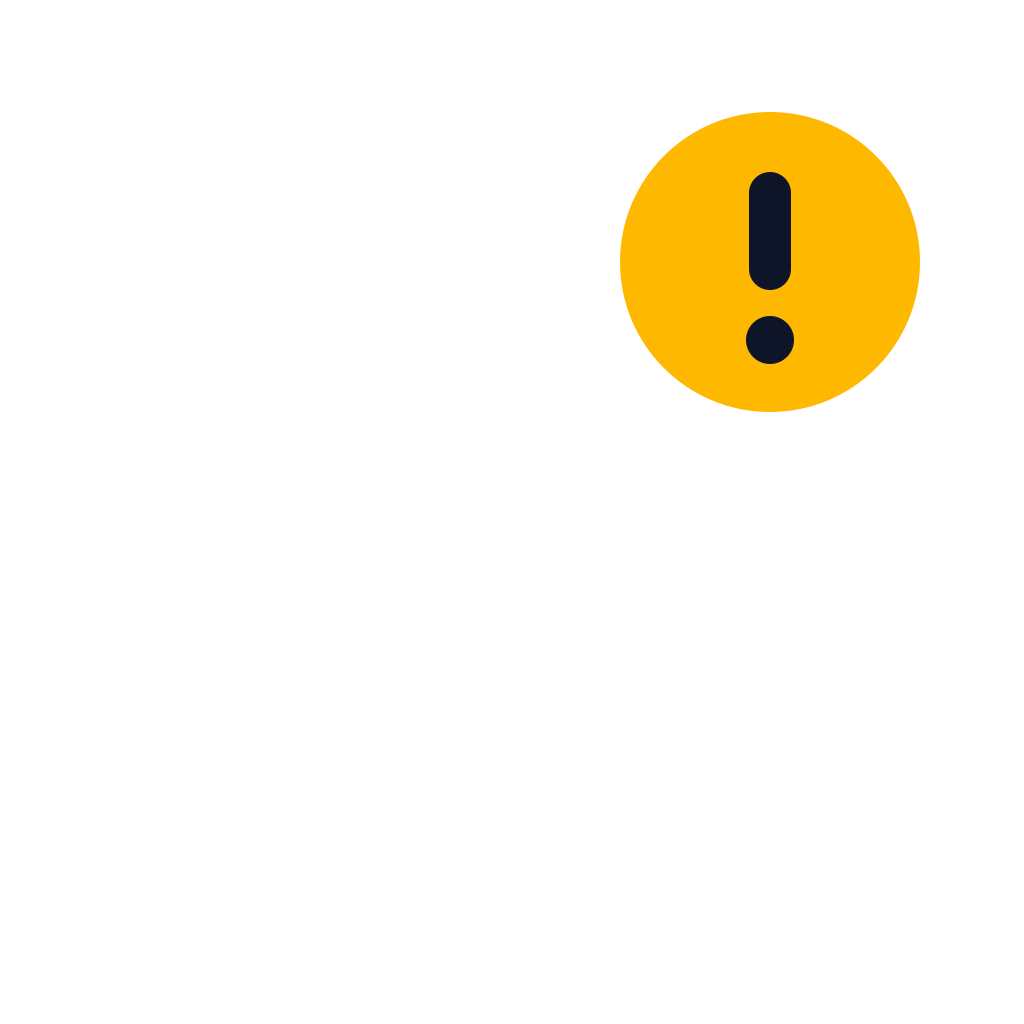
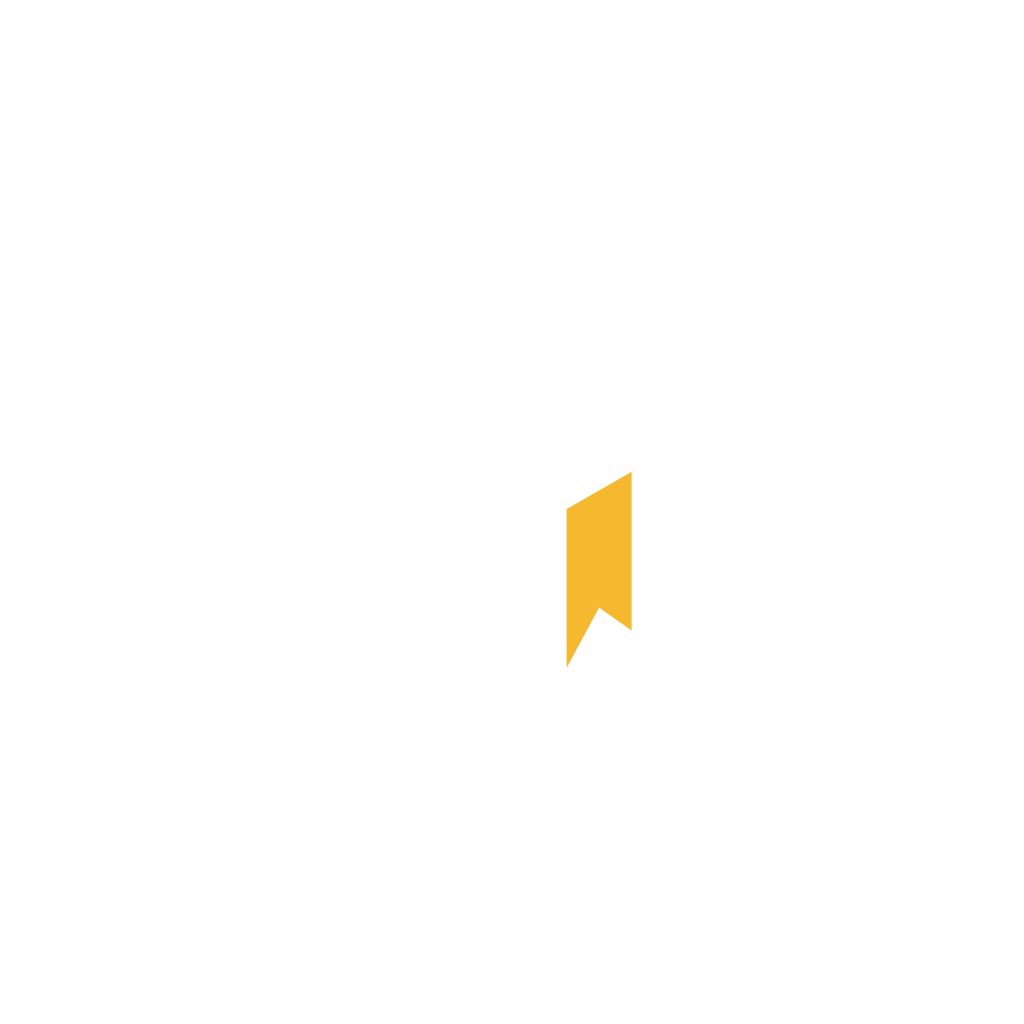
ZaikoBang のアイコンを「箱＋黄色いしおり」にする（「!」は警告に見えるのでやめる）

Changed region(s): [[0.5938, 0.0938, 0.9062, 0.4062], [0.5312, 0.4688, 0.625, 0.6562]]

diff --git a/public/index.html b/public/index.html
@@ -10,8 +10,8 @@
 <meta name="description" content="メルカリ出品を自動化・最適化するアシスタントツール"/>
 <title>ZaikoBang | 在庫・出品管理</title>
 <link rel="manifest" href="manifest.json"/>
-<link rel="icon" type="image/png" href="icons/icon-48.png?v=7"/>
-<link rel="apple-touch-icon" href="icons/icon-192.png?v=7"/>
+<link rel="icon" type="image/png" href="icons/icon-48.png?v=8"/>
+<link rel="apple-touch-icon" href="icons/icon-192.png?v=8"/>
 <script src="https://cdn.tailwindcss.com?plugins=forms,container-queries"></script>
 <link href="https://fonts.googleapis.com/css2?family=Plus+Jakarta+Sans:wght@400;500;600;700;800;900&family=Inter:wght@400;500;600;700&family=Noto+Sans+JP:wght@400;500;700;900&display=swap" rel="stylesheet"/>
 <link href="https://fonts.googleapis.com/css2?family=Material+Symbols+Outlined:opsz,wght,FILL,GRAD@20..48,100..700,0..1,-50..200&display=swap" rel="stylesheet"/>
@@ -289,7 +289,7 @@ tailwind.config = {
 <aside id="sidebar" class="fixed left-0 top-0 h-screen w-64 bg-surface-container-low flex-col z-40 p-4 gap-1">
   <div class="mb-8 px-4 py-3">
     <div class="flex items-center gap-2.5">
-      <img src="icons/icon-128.png?v=7" alt="" class="w-9 h-9 rounded-xl shadow-md shadow-black/10"/>
+      <img src="icons/icon-128.png?v=8" alt="" class="w-9 h-9 rounded-xl shadow-md shadow-black/10"/>
       <div>
         <h1 class="font-headline font-black text-base text-primary tracking-tight leading-tight">ZaikoBang</h1>
         <p class="text-[10px] text-on-surface-variant font-medium">出品自動化ツール</p>
@@ -359,7 +359,7 @@ tailwind.config = {
 <!-- MOBILE HEADER -->
 <header id="mobile-header" class="fixed top-0 left-0 w-full z-40 glass h-16 flex items-center justify-between px-5">
   <div class="flex items-center gap-2.5">
-    <img src="icons/icon-128.png?v=7" alt="" class="w-8 h-8 rounded-xl shadow-sm shadow-black/10"/>
+    <img src="icons/icon-128.png?v=8" alt="" class="w-8 h-8 rounded-xl shadow-sm shadow-black/10"/>
     <h1 class="font-headline font-black text-base text-primary tracking-tight">ZaikoBang</h1>
   </div>
   <div class="flex items-center gap-1.5">

diff --git a/public/sw.js b/public/sw.js
@@ -1,5 +1,5 @@
 // Service Worker for ZaikoBang
-const CACHE_NAME = 'furimora-v11';
+const CACHE_NAME = 'furimora-v12';
 const STATIC_ASSETS = [
   '/',
   '/index.html',
